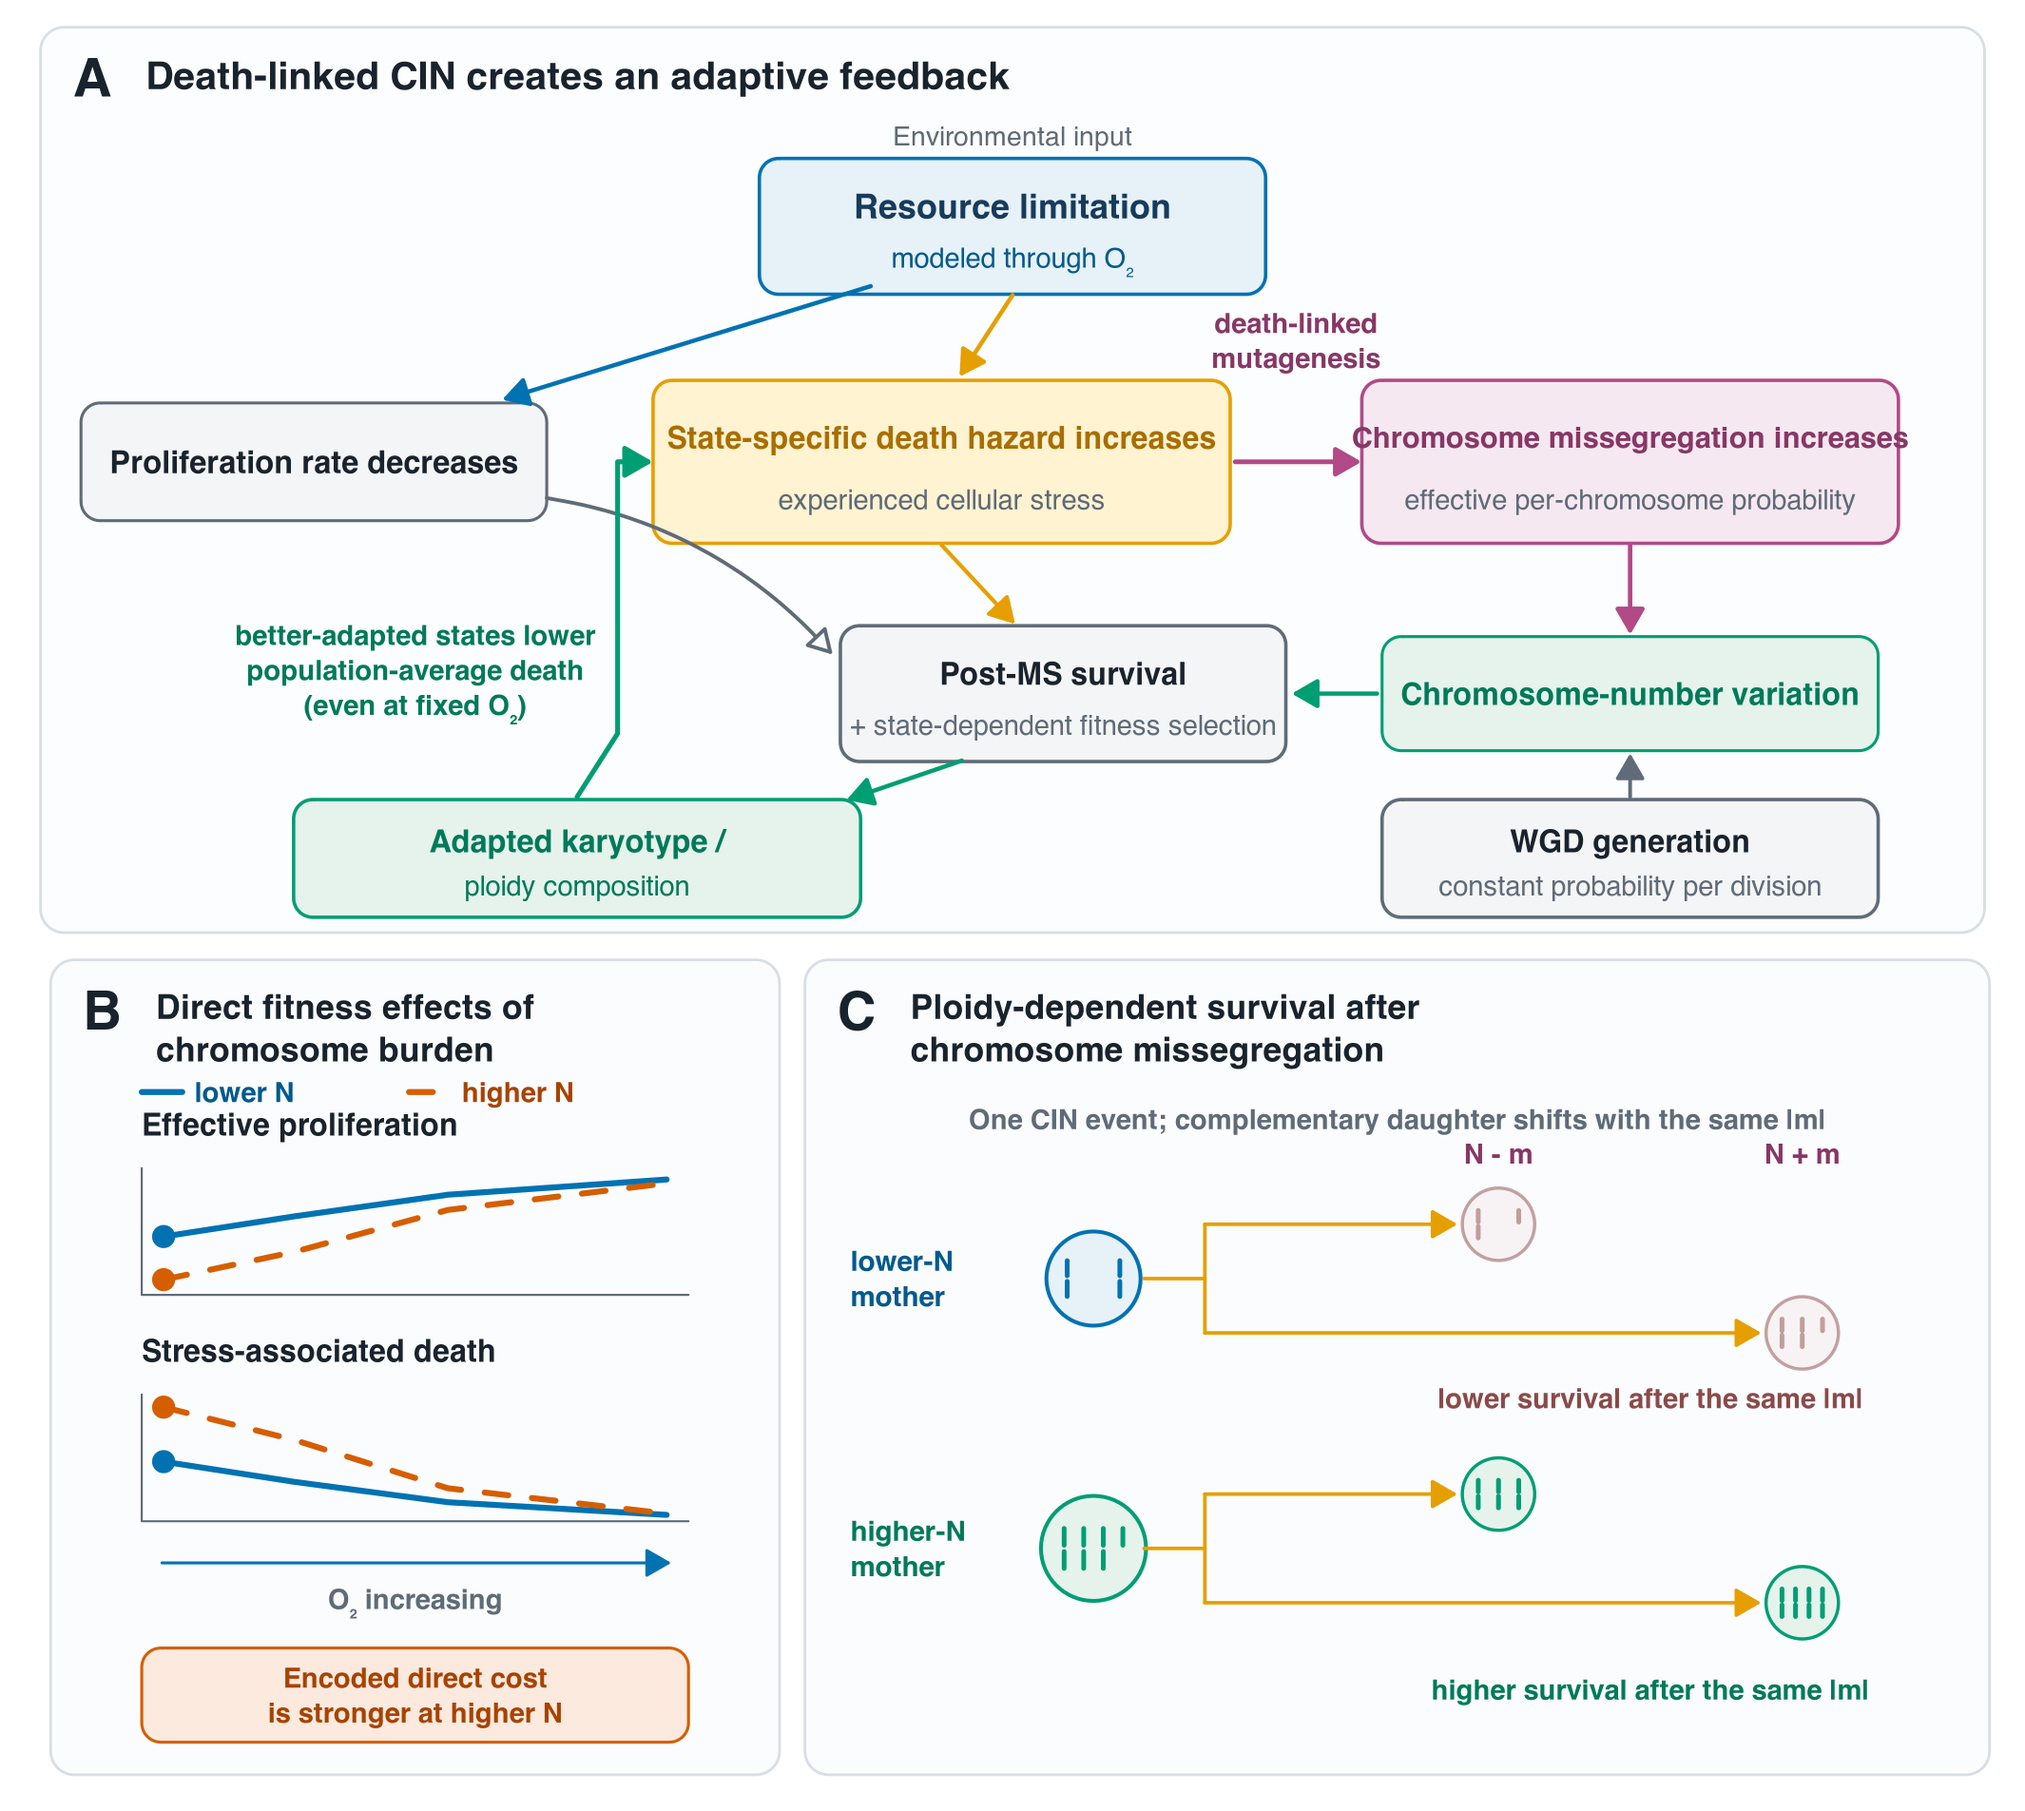
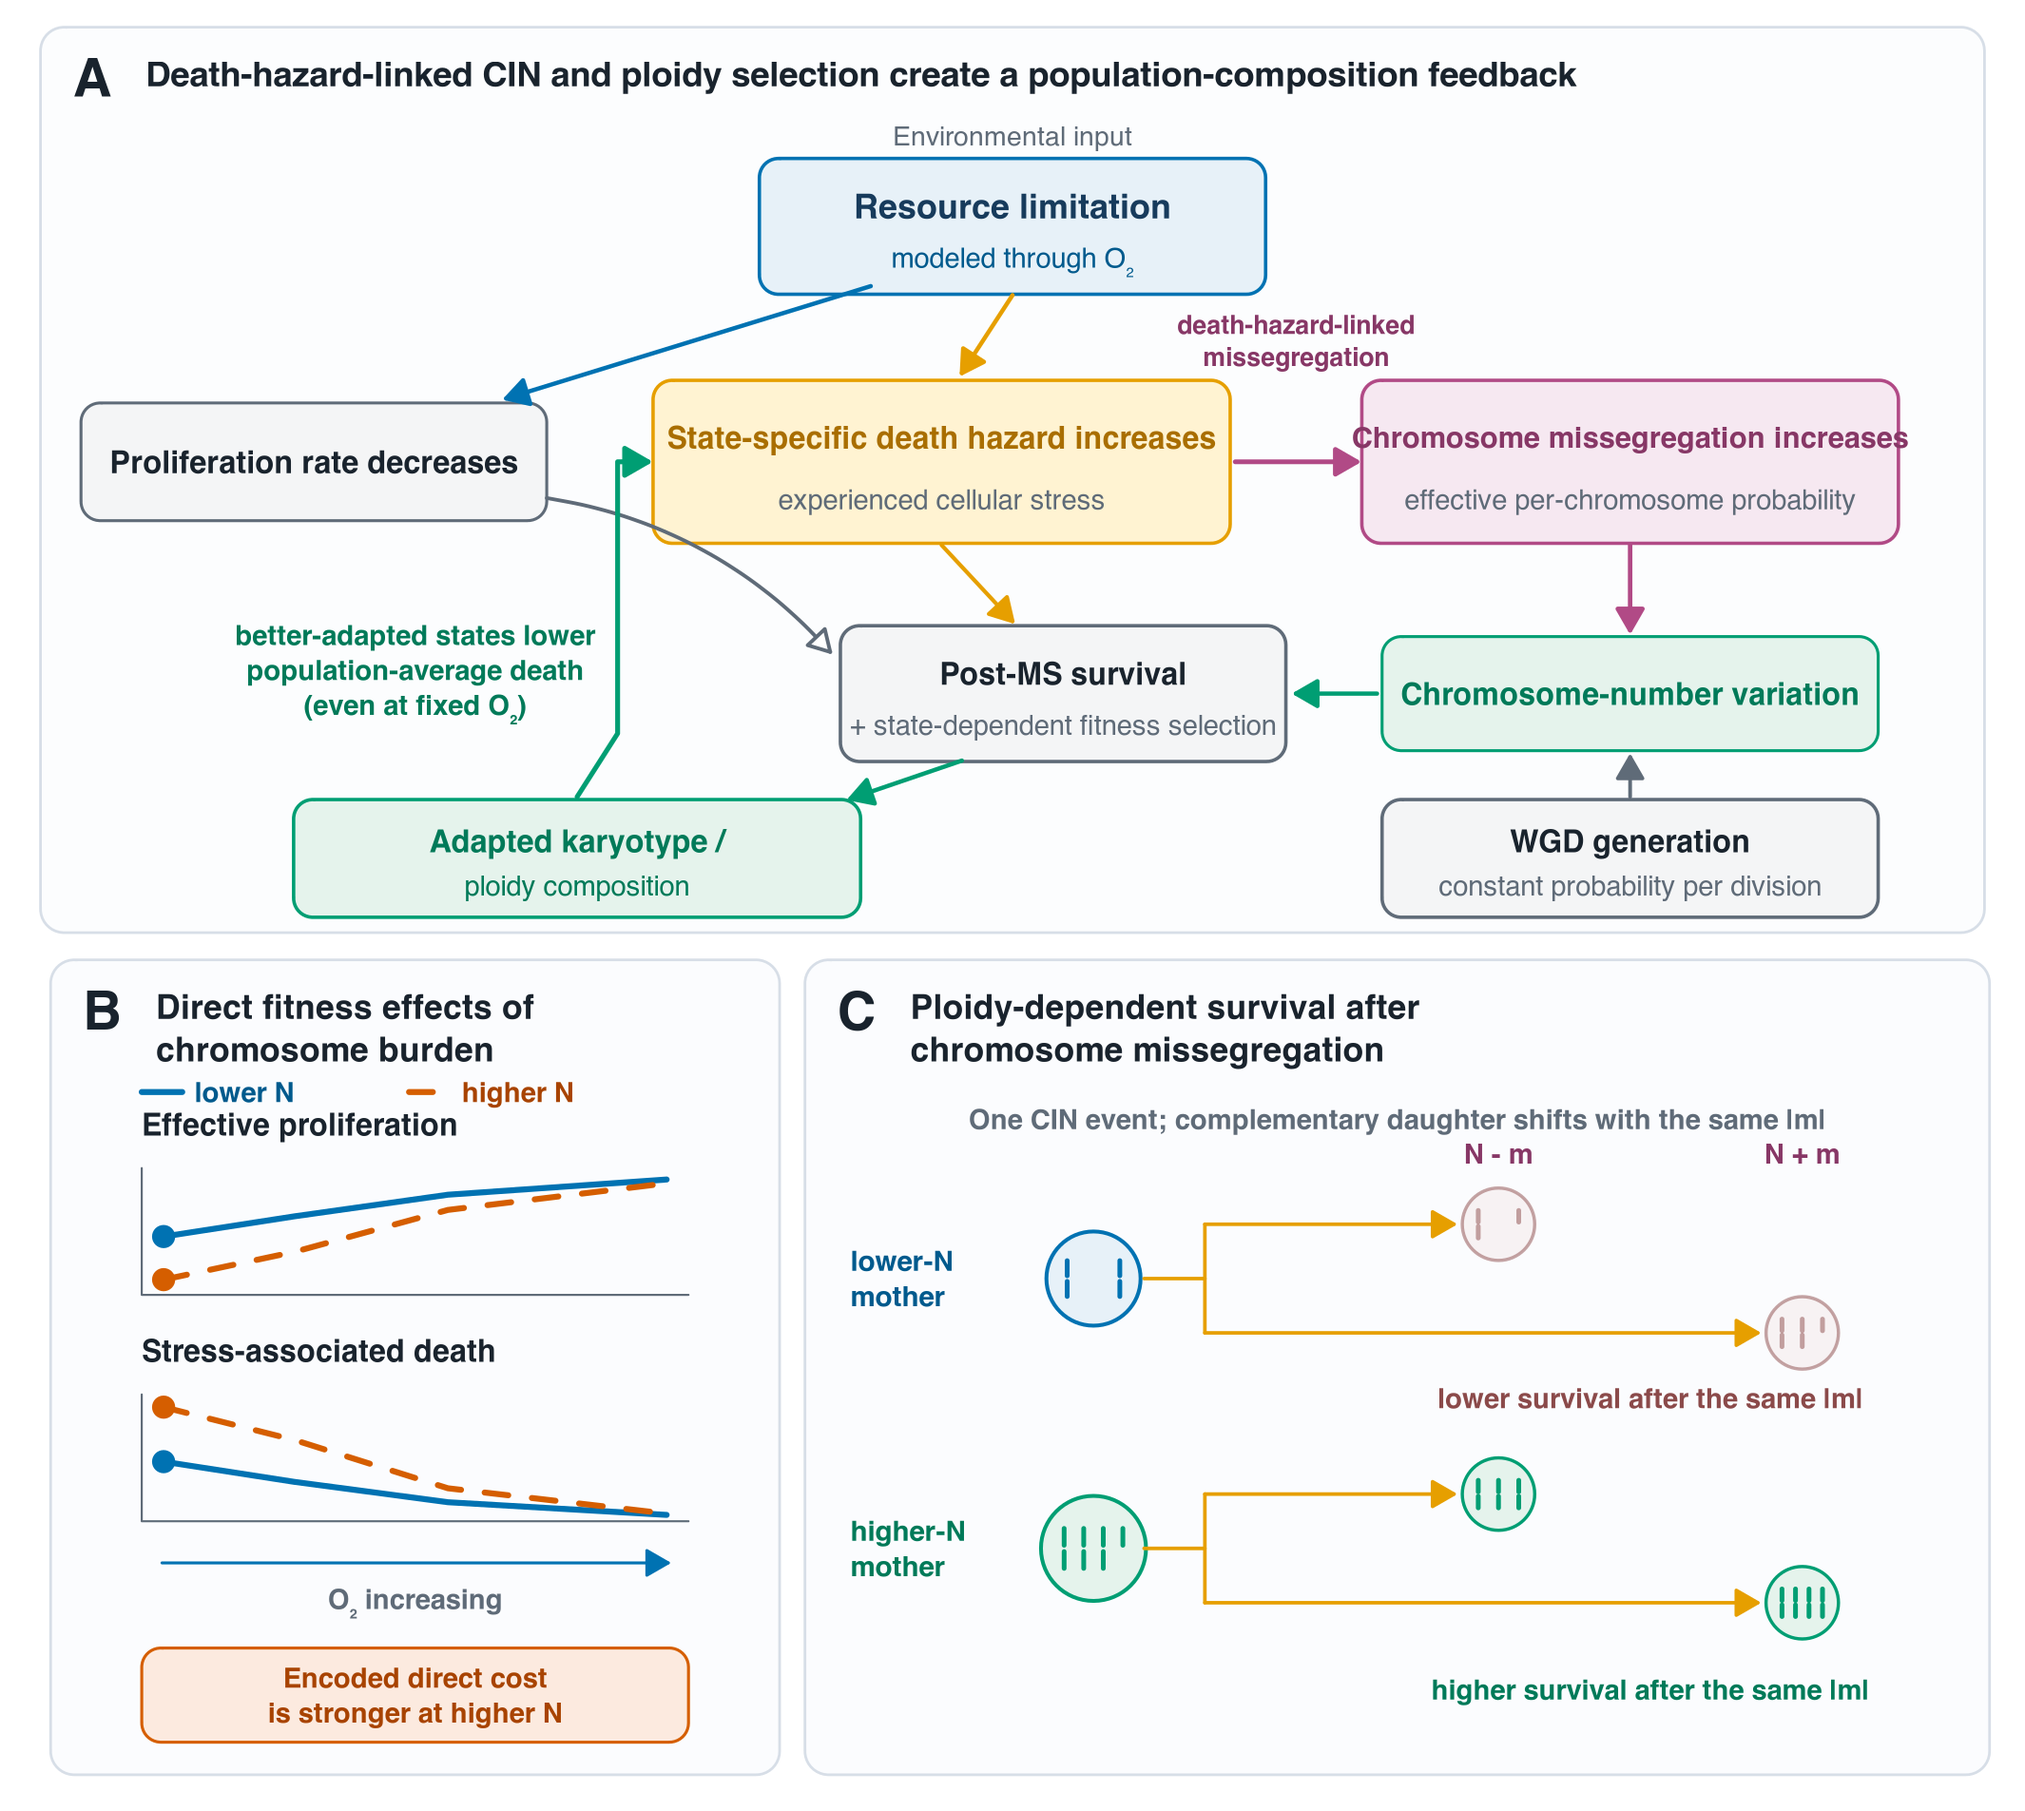
Clarify death-hazard-linked feedback in Figure 2

Changed region(s): [[0.062, 0.031, 0.7746, 0.0619], [0.5887, 0.1549, 0.7127, 0.2168]]

diff --git a/revised/iteration2/figure_generation/figure2_feedback_integration/drafting/legend_revisions/Figure_2.md b/revised/iteration2/figure_generation/figure2_feedback_integration/drafting/legend_revisions/Figure_2.md
@@ -1,3 +1,3 @@
-## Figure 2. Model architecture: death-linked chromosome instability couples resource limitation to ploidy adaptation
+## Figure 2. Model architecture: death-hazard-linked chromosome instability couples resource limitation to ploidy adaptation
 
-**(A)** Resource limitation, represented through O2, lowers chromosome-state-specific proliferation and raises the chromosome-state-specific death hazard used as the model's measure of experienced cellular stress. The effective per-chromosome missegregation probability increases with this death hazard, whereas whole-genome doubling (WGD) remains a separate constant-probability branch per division. Missegregated daughters are filtered by post-missegregation (post-MS) survival, and all viable chromosome states are further filtered by state-dependent proliferation and death. A shift toward better-adapted chromosome states can then lower population-average death and, consequently, population-average chromosome instability (CIN), even if environmental O2 remains fixed. O2 is prescribed by passage in vitro and is a latent, demand-dependent model variable in vivo. **(B)** Schematic encoded dependencies of effective proliferation and stress-associated death on O2 for lower- and higher-chromosome-number states. Under resource limitation, the direct fitness cost is stronger at higher N. The curves illustrate model structure and are not fitted trajectories. **(C)** A chromosome-missegregation event produces correlated complementary daughter shifts, N-m and N+m. For the same |m|, altered daughters from a higher-N mother have greater modeled survival than daughters from a lower-N mother, illustrating ploidy-dependent buffering. All panels describe the model architecture rather than experimental measurements or fitted results.
+**(A)** Resource limitation, modeled through O2, lowers chromosome-state-specific proliferation and raises the chromosome-state-specific death hazard. The death hazard serves as the model's latent measure of experienced cellular stress; the stress-associated increment in missegregation is linked to this hazard rather than directly to O2, while baseline missegregation and whole-genome doubling (WGD) remain separate model components. Post-missegregation (post-MS) survival and state-dependent fitness filter altered daughters; movement toward better-adapted chromosome states can lower population-average death and chromosome instability (CIN) even at fixed environmental O2. O2 is assigned by passage in vitro and is latent and demand-dependent in vivo. **(B)** Schematics show the encoded O2 dependence of proliferation and death for lower- and higher-chromosome-number states; the direct fitness cost is stronger at higher N. These are model relationships, not fitted trajectories. **(C)** Missegregation produces correlated complementary daughter shifts, N-m and N+m. For the same |m|, daughters from a higher-N mother have greater modeled survival, illustrating ploidy-dependent buffering. All panels describe model architecture rather than measurements or fitted results.
